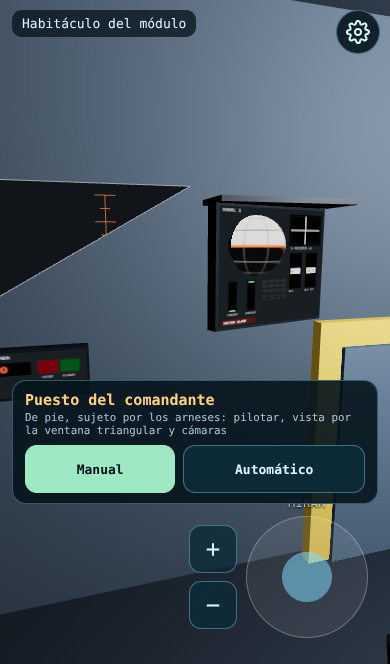
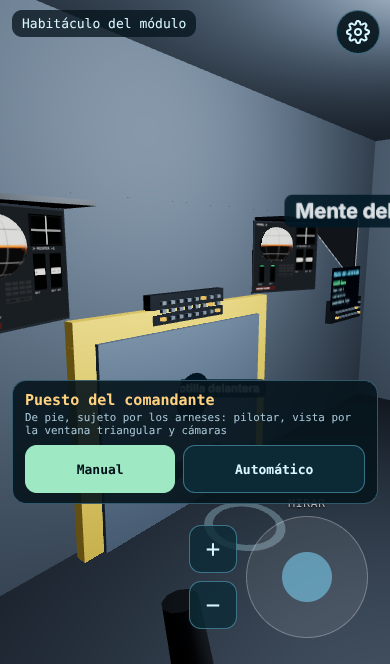
El joystick de cámara gira la cámara en 3ª persona y fuera de la estación (Berón, 2026-11-18)
- LM (acoplado y posado) y cubierta de vuelo de la Starship (walk-room.ts): en 3ª persona el joystick
  «Mirar» no hacía nada. Ahora gira la cámara de casa de muñecas alrededor de ella y la sube o la baja
  (orbit-around.ts, test UI-09).
- Paseo espacial desde Quest o la Starship: la regla de foco de robotics.css escondía el joystick de
  cámara. Ahora se ve.
- PX-43: en cada área (LM acoplado y posado, cubierta 3, esclusa y cubierta de vuelo de la Starship,
  Kibo, Quest), en 1ª y 3ª persona, empujar el joystick gira la cámara; también en la bahía, fuera de
  la estación y en Bennu.

Claude-Session: https://claude.ai/code/session_013f2k3BKu3GvWho9ZkdeNDk

diff --git a/src/walk-room.ts b/src/walk-room.ts
@@ -12,6 +12,7 @@ import { DOMENICA_HAIR } from "./ui/portraits";
 import { RootMenu } from "./ui/root-menu";
 import { ICON } from "./ui/icons";
 import { settings } from "./ui/settings-store";
+import { orbitAround } from "./adapters/three/orbit-around";
 import "./ui/lander-cabin.css";
 
 const esc = (s: string) => s.replace(/[&<>"]/g, (c) => ({ "&": "&amp;", "<": "&lt;", ">": "&gt;", '"': "&quot;" })[c]!);
@@ -107,6 +108,12 @@ export abstract class WalkRoom<Id extends string> {
   private walkLook = 0;
   protected seated = false;
   private camAtRear = true;
+  /**
+   * Third person: how far the camera joystick turned the dollhouse camera round her (yaw, radians) and raised
+   * or lowered it (pitch). Berón, 2026-11-18: in third person the joystick moved nothing (reglas.md §5.7).
+   */
+  private orbitYaw = 0;
+  private orbitPitch = 0;
   private readonly walls: THREE.Object3D[] = [];
   private readonly hidden: THREE.Object3D[] = [];
   private readonly ray = new THREE.Raycaster();
@@ -239,6 +246,8 @@ export abstract class WalkRoom<Id extends string> {
     this.walkTo = null;
     this.seated = false;
     this.camAtRear = this.pos.z < this.midZ;
+    this.orbitYaw = 0;
+    this.orbitPitch = 0;
     this.passing = null;
     for (const l of this.leaves.values()) l.set(0);
     // Came in through this machine's hatch: it is open behind her and shuts.
@@ -472,6 +481,10 @@ export abstract class WalkRoom<Id extends string> {
       if (this.walkTo) this.walkLook += look.yaw;
       else this.yaw += look.yaw;
       this.pitch = Math.max(-1.2, Math.min(1.3, this.pitch + look.pitch));
+    } else if (!busy) {
+      // Third person (or seated in lotus): the camera joystick turns the camera round her, never her.
+      this.orbitYaw += look.yaw;
+      this.orbitPitch = Math.max(-0.5, Math.min(0.6, this.orbitPitch + look.pitch));
     }
     let moving = false;
     const speed = this.opts.speedMs;
@@ -587,9 +600,11 @@ export abstract class WalkRoom<Id extends string> {
       const rear = this.camAtRear;
       const back = this.opts.cameraBackM ?? 1.4;
       this.lens(55, 0.05);
-      this.camera.position.set(this.pos.x * 0.4 * k, this.opts.layout.heightM * k + 0.85, rear ? f.maxZ * k + back : f.minZ * k - back);
       // Seated in lotus under the settings sheet: aim low so she shows in the top of the screen.
-      this.camera.lookAt(this.pos.x * 0.85 * k, this.seated ? -0.2 : 0.55, (this.pos.z + (rear ? -0.2 : 0.2)) * k);
+      const aim = new THREE.Vector3(this.pos.x * 0.85 * k, this.seated ? -0.2 : 0.55, (this.pos.z + (rear ? -0.2 : 0.2)) * k);
+      const from = new THREE.Vector3(this.pos.x * 0.4 * k, this.opts.layout.heightM * k + 0.85, rear ? f.maxZ * k + back : f.minZ * k - back);
+      this.camera.position.copy(orbitAround(from, aim, this.orbitYaw, this.orbitPitch));
+      this.camera.lookAt(aim);
       this.cutaway();
     } else {
       this.cutaway(true);
@@ -766,3 +781,4 @@ const POSE_SEAT = { rootY: 0.55, rootX: 0, torso: 0.1, headX: 0.2, headY: 0, hea
 
 /** Hand over hand along the rails (the cube rig's «hold»), for moving about in microgravity. */
 const POSE_HOLD = { rootY: 0.98, rootX: 0, torso: 0.1, headX: -0.1, headY: 0, headZ: 0, shoulderX: [-2.2, -0.9] as [number, number], shoulderZ: [0.05, -0.35] as [number, number], elbow: [-0.25, -0.7] as [number, number], hip: [-0.3, -0.3] as [number, number], knee: [0.4, 0.3] as [number, number] };
+

diff --git a/src/adapters/three/orbit-around.test.ts b/src/adapters/three/orbit-around.test.ts
@@ -1,0 +1,37 @@
+import { describe, expect, it } from "vitest";
+import * as THREE from "three";
+import { orbitAround } from "./orbit-around";
+import walkRoom from "../../walk-room.ts?raw";
+
+const wrap = (a: number) => Math.atan2(Math.sin(a), Math.cos(a));
+const heading = (from: THREE.Vector3, aim: THREE.Vector3) => Math.atan2(aim.x - from.x, aim.z - from.z);
+
+describe("UI-09 the camera joystick turns the camera in third person too (Berón, 2026-11-18)", () => {
+  const aim = new THREE.Vector3(0.2, 0.55, -0.3);
+  const from = new THREE.Vector3(0.1, 2.9, 2.4);
+
+  it("yaw turns the dollhouse camera round her, at the same distance", () => {
+    const at = orbitAround(from, aim, 0.5, 0);
+    expect(at.distanceTo(aim)).toBeCloseTo(from.distanceTo(aim), 6);
+    expect(wrap(heading(at, aim) - heading(from, aim))).toBeCloseTo(0.5, 6);
+  });
+
+  it("no input leaves the camera where the room puts it", () => {
+    expect(orbitAround(from, aim, 0, 0).distanceTo(from)).toBeLessThan(1e-9);
+  });
+
+  it("pitch raises or lowers it, never under her level nor past overhead", () => {
+    const up = orbitAround(from, aim, 0, -5);
+    const down = orbitAround(from, aim, 0, 5);
+    expect(up.y).toBeGreaterThan(from.y);
+    expect(down.y).toBeLessThan(from.y);
+    expect(down.y).toBeGreaterThan(aim.y);
+    expect(Math.hypot(up.x - aim.x, up.z - aim.z)).toBeGreaterThan(0.05);
+  });
+
+  it("the LM cabin and the flight deck (walk-room.ts) feed the stick to the orbit in third person and seated", () => {
+    expect(walkRoom).toMatch(/this\.orbitYaw \+= look\.yaw/);
+    expect(walkRoom).toMatch(/orbitAround\(from, aim, this\.orbitYaw, this\.orbitPitch\)/);
+  });
+
+});

diff --git a/src/ui/robotics.css b/src/ui/robotics.css
@@ -25,9 +25,9 @@
 .eva-st .es-ctl button { min-height: 48px; min-width: 64px; padding: 0 12px; border: 0; border-radius: 12px; font-size: 15px; color: #04121a; background: #7fdcff; touch-action: none; }
 .eva-st .es-ctl button.primary { background: #ffb347; font-weight: 600; }
 .eva-st .es-ctl button:disabled { opacity: 0.45; }
-/* Outside, only the scene and her suit's readout and controls (and the challenge sheet when she works). */
+/* Outside, only the scene, her suit's readout and controls, the camera joystick (and the challenge sheet when she works). */
 body.in-station-eva > :not(#app, script, style),
-body.in-station-eva #app > :not(canvas, .eva-st, .duel) { display: none !important; }
+body.in-station-eva #app > :not(canvas, .eva-st, .duel, .cam-stick.eva-cam) { display: none !important; }
 /* The spacewalk's camera joystick (reglas.md §5.7), on the right under the status line. */
 .cam-stick.eva-cam { top: calc(128px + env(safe-area-inset-top)); bottom: auto; right: 12px; z-index: 42; }
 .cam-stick.eva-cam > .vstick { width: 92px; height: 92px; }

diff --git a/src/adapters/three/orbit-around.ts b/src/adapters/three/orbit-around.ts
@@ -1,0 +1,13 @@
+import * as THREE from "three";
+/**
+ * The dollhouse camera `from`, turned round `aim` by the camera joystick: `yaw` about the vertical, `pitch`
+ * lowers it (+, looking up at her) or raises it (−), kept between just above her level and nearly overhead.
+ */
+export function orbitAround(from: THREE.Vector3, aim: THREE.Vector3, yaw: number, pitch: number): THREE.Vector3 {
+  const off = from.clone().sub(aim);
+  const flat = Math.hypot(off.x, off.z);
+  const r = off.length();
+  const elev = Math.max(0.08, Math.min(1.45, Math.atan2(off.y, flat) - pitch));
+  const head = Math.atan2(off.x, off.z) + yaw;
+  return new THREE.Vector3(Math.sin(head) * Math.cos(elev) * r, Math.sin(elev) * r, Math.cos(head) * Math.cos(elev) * r).add(aim);
+}

diff --git a/docs/qa/runs/2026-11-18-0606-PX-43.md b/docs/qa/runs/2026-11-18-0606-PX-43.md
@@ -1,0 +1,133 @@
+# Experiencia del jugador · 2026-11-18 06:06 UTC
+
+- Commit: `68ceb31 (con cambios sin commit)` (camara-3p)
+- Entorno: iPhone 13 de Playwright (pantalla 390×844, 390×664 visibles), CPU ×4 (botones: ×1); GPU ANGLE (Google, Vulkan 1.3.0 (SwiftShader Device (Subzero) (0x0000C0DE)), SwiftShader driver); local
+
+| ID | Recorrido | Veredicto | Comprobaciones | Presupuestos |
+|---|---|---|---|---|
+| PX-43 | Cámara, AQH y catálogo en un iPhone 13 (Berón, 2026-11-17): en el LM, la Starship y la estación solo está el joystick «Mirar» con «+» y «−» (no hay áreas con gravedad) y arrastrar la pantalla no gira nada; el AQH de JAXA a tamaño real (cámaras de 15 cm, medakas de 3,5 cm) con la escala de interiores, fuera de la pared y con los peces nadando dentro de sus cámaras; el catálogo de especies es un portátil en el bastidor de los animales en la Starship y en Kibo; la hora de llegada de una adopción cuenta sola con el catálogo abierto | OK | 66/66 | ✓ |
+
+## PX-43 · Cámara, AQH y catálogo en un iPhone 13 (Berón, 2026-11-17): en el LM, la Starship y la estación solo está el joystick «Mirar» con «+» y «−» (no hay áreas con gravedad) y arrastrar la pantalla no gira nada; el AQH de JAXA a tamaño real (cámaras de 15 cm, medakas de 3,5 cm) con la escala de interiores, fuera de la pared y con los peces nadando dentro de sus cámaras; el catálogo de especies es un portátil en el bastidor de los animales en la Starship y en Kibo; la hora de llegada de una adopción cuenta sola con el catálogo abierto
+
+- ✓ en el LM solo hay el joystick «Mirar» (sin gravedad, ninguno la mueve) — Mirar
+- ✓ junto a «Mirar» están «+» y «−» para acercar la cámara
+- ✓ en el LM, arrastrar la pantalla no mueve la cámara
+- ✓ en el LM, el joystick «Mirar» gira la cámara
+- ✓ El LM con solo el joystick de cámara: ningún botón se solapa con otro
+- · (preparación) (preparación) vista en 1ª persona en el LM
+- ✓ el LM, 1ª persona: el joystick de cámara está en pantalla
+- ✓ el LM, 1ª persona: empujar el joystick gira la cámara — -0.85 rad
+- · (preparación) (preparación) vista en 3ª persona en el LM
+- ✓ el LM, 3ª persona: el joystick de cámara está en pantalla
+- ✓ el LM, 3ª persona: empujar el joystick gira la cámara — -0.89 rad
+- · (preparación) (preparación) vista en 1ª persona en el LM
+- ✓ El LM en 3ª persona, la cámara girada con el joystick: ningún botón se solapa con otro
+- · (preparación) (preparación) camina hasta «acople» (la máquina no se ve en pantalla)
+- ✓ en la Starship solo hay el joystick «Mirar» — Mirar
+- · (preparación) (preparación) llegan 6 medakas y 4 caracoles al AQH (adoptarlos se juega en PX-27)
+- · (preparación) (preparación) Doménica va hasta «habitat-acuatico» de la Starship (los saltos se juegan en PX-28)
+- ✓ en la Starship, arrastrar la pantalla no mueve la cámara
+- ✓ Starship: las 6 medakas nadan dentro de sus cámaras, sin atravesar el cristal (muestra 1) — {"fish":6,"inside":true,"chamberCm":22.5,"fishCm":5.3}
+- ✓ Starship: cámaras de 15 cm y medakas de 3,5 cm, ampliadas por la escala de interiores (1.5×) — {"fish":6,"inside":true,"chamberCm":22.5,"fishCm":5.3}
+- ✓ Starship: las 6 medakas nadan dentro de sus cámaras, sin atravesar el cristal (muestra 2) — {"fish":6,"inside":true,"chamberCm":22.5,"fishCm":5.3}
+- ✓ Starship: las 6 medakas nadan dentro de sus cámaras, sin atravesar el cristal (muestra 3) — {"fish":6,"inside":true,"chamberCm":22.5,"fishCm":5.3}
+- ✓ Starship: el AQH no se mete en la pared (todo él queda en el pasillo) — 0.000 m
+- ✓ El AQH de la Starship: ningún botón se solapa con otro
+- ✓ «−» abre la cámara (sin mover a Doménica) — 0.60
+- ✓ El AQH entero con «−»: ningún botón se solapa con otro
+- · (preparación) (preparación) vista en 1ª persona en la cubierta 3 de la Starship
+- ✓ la cubierta 3 de la Starship, 1ª persona: el joystick de cámara está en pantalla
+- ✓ la cubierta 3 de la Starship, 1ª persona: empujar el joystick gira la cámara — -0.31 rad
+- · (preparación) (preparación) vista en 3ª persona en la cubierta 3 de la Starship
+- ✓ la cubierta 3 de la Starship, 3ª persona: el joystick de cámara está en pantalla
+- ✓ la cubierta 3 de la Starship, 3ª persona: empujar el joystick gira la cámara — -0.26 rad
+- · (preparación) (preparación) vista en 1ª persona en la cubierta 3 de la Starship
+- · (preparación) (preparación) Doménica va hasta «catalogo» de la Starship (los saltos se juegan en PX-28)
+- ✓ Starship: el catálogo es un portátil en el bastidor de los animales, no un panel — catalogo
+- ✓ El portátil del catálogo en la Starship: ningún botón se solapa con otro
+- ✓ la ficha dice cuánto falta, en horas de a bordo y en tiempo real — En camino: llega en 24,8 h de a bordo (24:48 reales)
+- ✓ con el catálogo abierto, la hora de llegada cuenta sola (sin cerrarlo y abrirlo) — En camino: llega en 24,8 h de a bordo (24:48 reales) → En camino: llega en 24,8 h de a bordo (24:47 reales)
+- ✓ La llegada contando en el catálogo abierto: ningún botón se solapa con otro
+- ✓ en la lista, el distintivo «En camino» también baja solo — En camino · 24,7 h → En camino · 24,6 h
+- · (preparación) (preparación) Doménica va hasta «esclusa» de la Starship (los saltos se juegan en PX-28)
+- · (preparación) (preparación) vista en 1ª persona en la esclusa de la Starship
+- ✓ la esclusa de la Starship, 1ª persona: el joystick de cámara está en pantalla
+- ✓ la esclusa de la Starship, 1ª persona: empujar el joystick gira la cámara — -0.87 rad
+- · (preparación) (preparación) vista en 3ª persona en la esclusa de la Starship
+- ✓ la esclusa de la Starship, 3ª persona: el joystick de cámara está en pantalla
+- ✓ la esclusa de la Starship, 3ª persona: empujar el joystick gira la cámara — -0.37 rad
+- · (preparación) (preparación) vista en 1ª persona en la esclusa de la Starship
+- · (preparación) (preparación) Doménica va hasta «subir-cubierta-vuelo» de la Starship (los saltos se juegan en PX-28)
+- · (preparación) (preparación) vista en 1ª persona en la cubierta de vuelo de la Starship
+- ✓ la cubierta de vuelo de la Starship, 1ª persona: el joystick de cámara está en pantalla
+- ✓ la cubierta de vuelo de la Starship, 1ª persona: empujar el joystick gira la cámara — -0.58 rad
+- · (preparación) (preparación) vista en 3ª persona en la cubierta de vuelo de la Starship
+- ✓ la cubierta de vuelo de la Starship, 3ª persona: el joystick de cámara está en pantalla
+- ✓ la cubierta de vuelo de la Starship, 3ª persona: empujar el joystick gira la cámara — -0.64 rad
+- · (preparación) (preparación) vista en 1ª persona en la cubierta de vuelo de la Starship
+- ✓ La cubierta de vuelo en 3ª persona, la cámara girada con el joystick: ningún botón se solapa con otro
+- · (preparación) (preparación) vuelve al LM y lo acopla en su puerto de la estación
+- · (preparación) (preparación) camina hasta «acople» (la máquina no se ve en pantalla)
+- ✓ en la estación solo hay el joystick «Mirar» — Mirar
+- · (preparación) (preparación) 6 medakas en el AQH de Kibo (el traslado se juega en PX-38)
+- · (preparación) (preparación) Doménica va hasta «rack-acuatico» de la estación (cruzar la estación salto a salto lleva minutos)
+- ✓ Kibo: las medakas nadan dentro de las cámaras del AQH — {"fish":6,"inside":true,"chamberCm":22.5,"fishCm":5.3}
+- ✓ El AQH de Kibo: ningún botón se solapa con otro
+- · (preparación) (preparación) vista en 1ª persona en Kibo
+- ✓ Kibo, 1ª persona: el joystick de cámara está en pantalla
+- ✓ Kibo, 1ª persona: empujar el joystick gira la cámara — -0.40 rad
+- · (preparación) (preparación) vista en 3ª persona en Kibo
+- ✓ Kibo, 3ª persona: el joystick de cámara está en pantalla
+- ✓ Kibo, 3ª persona: empujar el joystick gira la cámara — -0.36 rad
+- · (preparación) (preparación) vista en 1ª persona en Kibo
+- · (preparación) (preparación) Doménica va hasta «rack-catalogo» de la estación (cruzar la estación salto a salto lleva minutos)
+- ✓ Kibo: el catálogo es el portátil del bastidor de los animales, junto al AQH — catalogo
+- ✓ El portátil del catálogo en Kibo: ningún botón se solapa con otro
+- ✓ en la estación, arrastrar la pantalla no mueve la cámara
+- · (preparación) (preparación) Doménica va hasta «trajes» de la estación (cruzar la estación salto a salto lleva minutos)
+- · (preparación) (preparación) vista en 1ª persona en la esclusa Quest
+- ✓ la esclusa Quest, 1ª persona: el joystick de cámara está en pantalla
+- ✓ la esclusa Quest, 1ª persona: empujar el joystick gira la cámara — -0.32 rad
+- · (preparación) (preparación) vista en 3ª persona en la esclusa Quest
+- ✓ la esclusa Quest, 3ª persona: el joystick de cámara está en pantalla
+- ✓ la esclusa Quest, 3ª persona: empujar el joystick gira la cámara — -0.28 rad
+- · (preparación) (preparación) vista en 1ª persona en la esclusa Quest
+- · (preparación) (preparación) hay alas nuevas en el hangar (impresas en Planos → Componentes)
+- · (preparación) (preparación) Doménica va hasta «consola-bahia» de la estación (cruzar la estación salto a salto lleva minutos)
+- ✓ la bahía: el joystick de cámara está en pantalla
+- ✓ la bahía: empujar el joystick gira la cámara — -0.23 rad
+- · (preparación) (preparación) traje puesto, ISLE y esclusa vacía (se juegan en PX-39)
+- · (preparación) (preparación) Doménica va hasta «escotilla-eva» de la estación (cruzar la estación salto a salto lleva minutos)
+- ✓ fuera de la estación (paseo espacial): el joystick de cámara está en pantalla
+- ✓ fuera de la estación (paseo espacial): empujar el joystick gira la cámara — -0.37 rad
+- ✓ Fuera de la estación con el joystick de cámara: ningún botón se solapa con otro
+- · (preparación) (preparación) posa el módulo sobre Bennu (aterrizar a mano lleva minutos y se juega en PX-03)
+- · (preparación) (preparación) vista en 1ª persona en el LM posado
+- ✓ el LM posado, 1ª persona: el joystick de cámara está en pantalla
+- ✓ el LM posado, 1ª persona: empujar el joystick gira la cámara — -0.34 rad
+- · (preparación) (preparación) vista en 3ª persona en el LM posado
+- ✓ el LM posado, 3ª persona: el joystick de cámara está en pantalla
+- ✓ el LM posado, 3ª persona: empujar el joystick gira la cámara — 0.17 rad
+- · (preparación) (preparación) vista en 1ª persona en el LM posado
+- · (preparación) (preparación) fuera con el traje puesto (ponérselo es un reto que se juega en PX-03)
+- ✓ el paseo por Bennu: el joystick de cámara está en pantalla
+- ✓ el paseo por Bennu: empujar el joystick gira la cámara — -0.76 rad
+- ✓ Fuera, en Bennu, con el joystick de cámara: ningún botón se solapa con otro
+- ✓ ningún error de JavaScript en la página
+
+Problemas de experiencia:
+- Hay que desplazar la pantalla para llegar a «Montar 4 alas de la ISS con 4 »: no cabe en 390×664
+
+Rendimiento (GPU: ANGLE (Google, Vulkan 1.3.0 (SwiftShader Device (Subzero) (0x0000C0DE)), SwiftShader driver)): 226 fotogramas en 34 s, mediana 33.4 ms, 16 tareas largas (la mayor 1566 ms).
+
+| Presupuesto | Valor | Máximo | |
+|---|---|---|---|
+| Carga hasta el primer fotograma | 1482 ms | 8000 ms | ✓ |
+| Fotograma p95 | 566.6 ms | 33 ms | ✗ informativo (GPU por software) |
+| Fotogramas de más de 33 ms | 56.2 % | 10 % | ✗ informativo (GPU por software) |
+| Tareas largas por minuto | 28.3 | 30 | ✓ |
+| Memoria JS | 73.1 MB | 350 MB | ✓ |
+| Llamadas de dibujo por fotograma | 229 | 600 | ✓ |
+| Triángulos por fotograma | 121 k | 2000 k | ✓ |
+
+Capturas: camara-acuario-01-lm-mirar.png, camara-acuario-02-lm-3p.png, camara-acuario-03-starship-aqh.png, camara-acuario-04-starship-aqh-entero.png, camara-acuario-05-starship-portatil.png, camara-acuario-06-llegada-en-vivo.png, camara-acuario-07-cubierta-vuelo-3p.png, camara-acuario-08-kibo-aqh.png, camara-acuario-09-kibo-portatil.png, camara-acuario-10-eva-camara.png, camara-acuario-11-bennu-eva.png

diff --git a/docs/qa/casos.md b/docs/qa/casos.md
@@ -318,6 +318,7 @@ Diseño: [design/soporte-vital.md](../design/soporte-vital.md). Fuentes: [resear
 | UI-06 | La «Vista HUD» se ofrece en todos los retos, también en los de Planos y en el duelo de la mente (que no se cierra con ×) ([reglas.md](../design/reglas.md) §4.4) | — | PX-37 |
 | UI-07 | La cámara se mueve solo con joystick (reglas.md §5.7): ninguna vista gira con un arrastre ni un pellizco en la pantalla (bahía, pantalla de la estación, mapa, vista de fuera y del brazo, paseo espacial, «Ver trayecto», cabinas e interiores); donde la vista acerca hay «+» y «−» junto al joystick; los toques sobre piezas, destinos y máquinas siguen | `camera-stick.test.ts` | PX-43 |
 | UI-08 | De momento no hay áreas con gravedad (reglas.md §2.6): en el LM (también posado), la Starship, la estación y los paseos, el único joystick es «Mirar», que mueve la cámara; ella se mueve sola (flechas, rutas, «Ir», toques, «Avanzar»/«Atrás» en el asteroide). El mando que la mueve sigue en el código para un área con gravedad o agua | `camera-stick.test.ts` | PX-43 |
+| UI-09 | El joystick de cámara gira la cámara en todas las áreas y en las dos vistas (Berón, 2026-11-18: «en 3ª persona no puedo mover la cámara»): en 3ª persona el LM (también posado) y la cubierta de vuelo de la Starship giran su cámara de casa de muñecas alrededor de ella; la Starship, la estación y sus esclusas, en 1ª y 3ª; la bahía; fuera de la estación el joystick de cámara se ve (la regla de foco ya no lo esconde); el paseo por Bennu. En un reto no hay joystick (reglas §4.3) | `orbit-around.test.ts` | Recorrido PX `camara-acuario` (PX-43) |
 
 ### Habitáculo del módulo, ajustes, tareas y puente de consolas (HAB)
 
@@ -447,7 +448,7 @@ fila del recorrido en [registro.md](registro.md).
 | PX-42 | `tareas-ajustes` | Partida nueva en el LM, con toques. **Menú árbol**: solo el engranaje arriba a la derecha; al tocarlo es una X («Cerrar menú») y brotan Vista, Tareas y Áreas, de 44 px. **Áreas**: el esquema del LM (automático) con sus puestos y líneas, su icono del menú es la X; su ⚙ enseña los ajustes compartidos (Viaje/Teletransporte; Automático, Nave, Estación, Módulo); con «Estación», la ISS (Harmony, Destiny…); de vuelta a Automático, tocar «Panel del ECS» la lleva andando hasta él. **Tareas**: la X del menú mientras está abierta; cabecera [⚙ Ajustes de tareas][✕ Cerrar tareas]; en la lista no hay interruptor ni filtros; «Automático» enseña solo lo del módulo (al empezar, nada: lo dice y cuántas hay fuera). ⚙: los ajustes y el engranaje pasa a ser el icono de lista. «Estación» se guarda y la lista solo tiene tareas de la estación; un grupo deja solo ese grupo; la X del menú cierra la lista. Tras recargar sigue «Estación» y el grupo vuelve a «Todas». En la Starship, «Automático» enseña solo sus tareas; «Todos», todas. **Trayecto**: sin viaje no brota; con la Starship volando a la estación brota el último, abre la ventana de solo estado (destino, fase, distancia, llega en, barra; solo «Cerrar trayecto») y la X del menú la cierra; al parar el viaje deja de brotar. Sin botones solapados. Capturas `docs/screenshots/tareas-ajustes-*-movil.png` | iPhone 13, CPU ×1 |
 | PX-40 | `cubierta-vuelo` | En la cubierta de vuelo de la Starship, con toques: es la sala redonda del morro, sin «Vida y hábitat» ni «Energía y calor»; ningún puesto ofrece «Usar la consola» de solo lectura. En el puesto de pilotaje se sienta; ofrece destino (la estación y los asteroides), «Manual» y «Automático (retos)». «Manual» a un asteroide: +0,1 m/s dos veces, panel «en desarrollo»; en la mesa de navegación los mandos no salen y la nave sigue; vuelta al puesto, «Parar» y «Mando». «Automático (retos)» a la estación abre los retos del viaje. A mano cerca de la estación (preparado), se queda en el punto de espera 1; el puesto de acople ofrece a mano y por retos; a mano con la cámara: +0,05 ×6, frenar a 0,10 antes del contacto, atraca. Atracada: «Desacoplar» retrocede hasta el punto 1. «Acoplar automático (retos)»: reto resuelto con toques, fase de atraque y atracada. Atracada, «Manual» dice que primero hay que desacoplar. En 0 g no hay joystick para andar y entre puestos va a saltos (impulso, planeo, agarre). La cámara de acople gira con su joystick sin pasar de ±20° y «Vista» pasa a la de lado. El reto del acople se ve en la consola: ella ante ella y la pantalla de la cámara en el punto 1; tras el primer paso la pantalla avanza y ella hace el gesto. Sin botones solapados. Capturas `docs/screenshots/cubierta-vuelo-*-movil.png`. | iPhone 13, CPU ×1 |
 | PX-41 | `mandos` | En un iPhone 13: acoplado, de la raíz de los mandos brota solo «Desacoplar» (no hay «Centrar la vista»); el puesto del comandante ofrece «Manual» y «Automático»; «Automático» lista solo la estación y Bennu (ningún asteroide lejano) y Bennu abre el reto; resuelto, el LM se desacopla y vuela solo. Cerca del puerto el interruptor dice «Acoplar», el asistente lo lleva y el mismo interruptor desacopla. En la cubierta de vuelo, Juventas está bajo la piel del casco (también tras moverse la Starship 4 km), el mando de la sonda ofrece lo mismo, su «Automático» solo Bennu; la puerta del dispensador se abre a ×1 con su aviso, la sonda sale y se suelta a 3 cm/s; posada se termina su misión, sale la siguiente y, vacíos, la consola y el mando lo dicen. Capturas `docs/screenshots/mandos-*-movil.png` | iPhone 13, CPU ×1 |
-| PX-43 | `camara-acuario` | En un iPhone 13: en el LM, la Starship y la estación solo está «Mirar» con «+» y «−», que gira y acerca la cámara, y arrastrar la pantalla no gira nada; en la Starship el AQH a tamaño real con la escala de interiores, fuera de la pared, con sus medakas nadando dentro de las cámaras (auditado en vivo) y con «−» se ve entero; el catálogo es un portátil en el bastidor de los animales; adoptar un pez cebra y ver la llegada contar sola con el catálogo abierto, en la ficha y en la lista; en Kibo, el AQH con sus medakas y el portátil del catálogo a su lado | — | Capturas `camara-acuario-*-movil.png` |
+| PX-43 | `camara-acuario` | En un iPhone 13: en cada área (el LM acoplado y posado en Bennu, las cubiertas 3 y la esclusa de la Starship, su cubierta de vuelo, Kibo y la esclusa Quest) en 1ª y en 3ª persona, empujar el joystick de cámara gira la cámara; también en la bahía, fuera de la estación y en Bennu. En el LM, la Starship y la estación solo está «Mirar» con «+» y «−», que gira y acerca la cámara, y arrastrar la pantalla no gira nada; en la Starship el AQH a tamaño real con la escala de interiores, fuera de la pared, con sus medakas nadando dentro de las cámaras (auditado en vivo) y con «−» se ve entero; el catálogo es un portátil en el bastidor de los animales; adoptar un pez cebra y ver la llegada contar sola con el catálogo abierto, en la ficha y en la lista; en Kibo, el AQH con sus medakas y el portátil del catálogo a su lado | — | Capturas `camara-acuario-*-movil.png` |
 | PX-27 | `catalogo` | Partida nueva: ni gatos, ni perros, ni gallinas, ni peces ni caracoles; el estado dice «sin peces (adóptalos en el catálogo)» y no hay tareas de cuidar animales; la lista de tareas no tiene botón del catálogo. En su terminal, junto al acuario: más de 50 fichas, cabe a lo ancho; filtro Caracoles con Biomphalaria y nerita. La nerita (sin vuelo, limpiacristales, no cría en agua dulce, Aporta y Precauciones por separado, con fuente) sale «Pendiente: nunca ha vivido en ingravidez» y sin botón; la Biomphalaria (ha volado, esquistosoma, solo líneas de laboratorio) cabe en el hábitat acuático, tipo Aquatic Habitat de JAXA, con su fuente. «Adoptar» Biomphalaria y medaka (filtro por hábitat: medaka y pez cebra, no la tilapia ni el pez ciego): «En camino: llega en 24,8 h de a bordo (24:48 reales)», que cuenta sola. Mascotas: el ratón «Disponible»; gatos y perros «Pendiente». Pasa el viaje: 8 medakas y 4 caracoles en el tanque y en 3D. Dar de comer, amistad con las medakas y con los caracoles: «medakas amigas · caracoles amigos». Junto al terminal, «Catálogo de especies»: los caracoles «A bordo · 4». Un día de a bordo: hambre 2 veces y cada comida medio día; aviso «tiene hambre». Capturas `docs/screenshots/catalogo-*-movil.png`. | iPhone 13, CPU ×4 |
 | PX-28 | `starship` | Partida nueva con el interruptor «solo real»: la nodriza es una Starship sin anillo, animales ni huerto, con metano y oxígeno y ~10 km/s de Δv. Del habitáculo, «Entrar en la nave de viaje» lleva a la cubierta 3 (letrero con la cubierta y 0 g). Tareas → «Ir» a una comida de la ISS: la cocina de la cubierta 1 con su reto; «Ir» a la cinta: la T2 de la cubierta 3. En el terminal del catálogo de la cubierta 2 se adoptan medakas para el hábitat acuático; llegan y se ven en el hábitat de la cubierta 3, que ofrece cuidarlas. Junto a la escotilla del techo de la cubierta 1, «Subir a la cubierta de vuelo» abre la cubierta de vuelo de la Starship; el puesto de pilotaje ofrece «Manual» y «Automático (retos)», y sus «Pantallas de sistemas» (propulsión, energía y vida en pestañas) dicen Raptor de vacío y metano y oxígeno; la mesa de navegación programa un viaje que acelera, va por inercia y frena. Con cada reto abierto solo se ve la hoja; en ninguna pantalla aparece el anillo, el huerto, animales ni xenón; sin botones solapados. Capturas `docs/screenshots/starship-*-movil.png`. | iPhone 13, CPU ×1 |
 | PX-29 | `estacion-iss` | La ISS con toques: recorrido por sus escotillas, cada una con «Entrar en <módulo>» (Harmony y sus camarotes, que son cuartos, Destiny y la AMF, Unity, Tranquility y los bastidores de agua, Columbus y la impresora, Kibo, su esclusa a la JEM-EF (escotilla sin menú) y la consola del JEMRMS con el Hangar, Quest y los trajes), una captura por módulo; en Kibo, el hábitat acuático (AQH) y el portátil que abre el catálogo de especies. Dentro de la Bishop, su placa ofrece «Sujetar Juventas»; desde el puesto robótico de la Cupola, «Soltar Juventas»: Juventas queda fuera y la vista de la Cupola enseña el brazo sacando la Bishop y la carga alejándose; la Bishop vuelve. En la Cupola el brazo atraca el módulo en el CBM de Unity y lo devuelve. Cada trabajo del brazo (soltar con la Bishop, atracar, devolver) es un reto del RWS que se juega con el brazo moviéndose fuera (PX-39 audita cada paso). La cocina de Unity hace un plato. Sin botones solapados. Capturas `docs/screenshots/iss-*-movil.png`. | iPhone 13, CPU ×1 |

diff --git a/docs/qa/registro.md b/docs/qa/registro.md
@@ -217,6 +217,7 @@ de la nave real es **PX-28** (`starship`); PX-03 y PX-04/05 leen la radio y audi
 | UI-06 | Probado (en vivo) | 2026-11-17 | `1e45fe6` | [run](runs/2026-11-17-0459-PX-28-PX-31-PX-35-PX-37-PX-20.md): PX-37 OK |
 | UI-07 | Solo test | | | `camera-stick.test.ts` verde; lo juega PX-43 |
 | UI-08 | Solo test | | | `camera-stick.test.ts` verde; lo juega PX-43 |
+| UI-09 | Probado (en vivo) | 2026-11-18 | | `orbit-around.test.ts` verde; PX-43 lo juega en cada área en 1ª y 3ª persona |
 | HAB-01 | Solo test | | | Tests citados en casos.md (verdes en la suite completa); sin run log jugado |
 | HAB-02 | Solo test | | | Tests citados en casos.md (verdes en la suite completa); sin run log jugado |
 | HAB-03 | Solo test | | | Tests citados en casos.md (verdes en la suite completa); sin run log jugado |
@@ -304,7 +305,7 @@ de la nave real es **PX-28** (`starship`); PX-03 y PX-04/05 leen la radio y audi
 | PX-41 | Probado (en vivo) | 2026-11-17 | `3131bc4` | [run](runs/2026-11-17-2027-PX-04-PX-41-PX-42-PX-40.md): 29 OK |
 | PX-38 | Probado (en vivo) | 2026-11-17 | `5c98cd4` | [run](runs/2026-11-17-1352-PX-28-PX-38-PX-39.md): 77 OK |
 | PX-42 | Probado (en vivo) | 2026-11-17 | `3131bc4` | [run](runs/2026-11-17-2027-PX-04-PX-41-PX-42-PX-40.md): 44 OK |
-| PX-43 | Probado (en vivo) | 2026-11-17 | `65fbb2f` | [run](runs/2026-11-17-2111-PX-28-PX-43-PX-36.md): 28 OK |
+| PX-43 | Probado (en vivo) | 2026-11-18 | `68ceb31` | [run](runs/2026-11-18-0606-PX-43.md): 66 OK |
 
 ## Última ejecución por run log
 
@@ -312,6 +313,7 @@ La más reciente arriba.
 
 | Fecha | Casos | Modo | Resultado | Run |
 |---|---|---|---|---|
+| 2026-11-18 06:06 | PX-43 | Experiencia (Playwright) | 1/1 recorridos bien | [run](runs/2026-11-18-0606-PX-43.md) |
 | 2026-11-17 21:38 | PX-15, PX-36, PX-40 | Experiencia (Playwright) | 3/3 recorridos bien | [run](runs/2026-11-17-2138-PX-15-PX-36-PX-40.md) |
 | 2026-11-17 21:26 | PX-15, PX-36, PX-40 | Experiencia (Playwright) | 3/3 recorridos bien | [run](runs/2026-11-17-2126-PX-15-PX-36-PX-40.md) |
 | 2026-11-17 21:25 | PX-27 | Experiencia (Playwright) | 1/1 recorridos bien | [run](runs/2026-11-17-2125-PX-27.md) |

diff --git a/docs/design/interiores.md b/docs/design/interiores.md
@@ -254,7 +254,7 @@ Para **salir**: por la escotilla del módulo se vuelve a la cabina y por la de l
 
 ### Móvil primero
 
-Dos mandos en las esquinas de abajo: las flechas de salto, que llevan de asidero en asidero (fase C de [ingravidez.md](ingravidez.md)), y Mirar. El botón de contexto va encima, al alcance del pulgar. Arriba a la izquierda va el HUD y a la derecha tres botones cortos: «Tareas», «Vista 3ª/1ª» y «Salir». Los rótulos flotantes se esconden cuando están tan cerca que taparían la pantalla. La cámara en 3ª persona nunca atraviesa una pared: se acerca al centro del pasillo y, si aun así no cabe detrás de Doménica, pasa a 1ª persona hasta que hay sitio. En el escritorio, las flechas o WASD saltan, Q/E y arrastrar miran e Intro usa.
+Dos mandos en las esquinas de abajo: las flechas de salto, que llevan de asidero en asidero (fase C de [ingravidez.md](ingravidez.md)), y Mirar. El botón de contexto va encima, al alcance del pulgar. Arriba a la izquierda va el HUD y a la derecha tres botones cortos: «Tareas», «Vista 3ª/1ª» y «Salir». Los rótulos flotantes se esconden cuando están tan cerca que taparían la pantalla. La cámara en 3ª persona nunca atraviesa una pared: se acerca al centro del pasillo y, si aun así no cabe detrás de Doménica, pasa a 1ª persona hasta que hay sitio. «Mirar» gira la cámara en las dos vistas (UI-09). En el escritorio, las flechas o WASD saltan, Q/E miran (nunca arrastrar: reglas §5.7) e Intro usa.
 
 ### Archivos
 

diff --git a/docs/design/habitaculo.md b/docs/design/habitaculo.md
@@ -10,7 +10,9 @@ pantalla queda lo mínimo para volar.
 Era la cápsula que el piloto veía desde el asiento (`cockpit.ts`, ya sustituida por la cabina real del LM: [cabina-lm.md](cabina-lm.md)), alargada hacia popa (abajo) y
 con el suelo a la altura de sus pies. Doménica camina por ella con cámara de casa de muñecas: la cámara queda fuera y por encima, y
 se quitan las paredes que hay entre ella y la cámara, si se elige la 3ª persona. Por defecto se ve en 1ª
-persona (ajuste «Vista a pie»). Con el ojo (V) se cambia.
+persona (ajuste «Vista a pie»). Con el ojo (V) se cambia. En 3ª persona el joystick «Mirar» gira esa cámara
+alrededor de ella y la sube o la baja (Berón, 2026-11-18: «en 3ª persona no puedo mover la cámara»); lo mismo
+en la cubierta de vuelo de la Starship (`walk-room.ts`, `orbit-around.ts`; UI-09).
 
 | Máquina | Qué hace | Sustituye |
 | --- | --- | --- |
